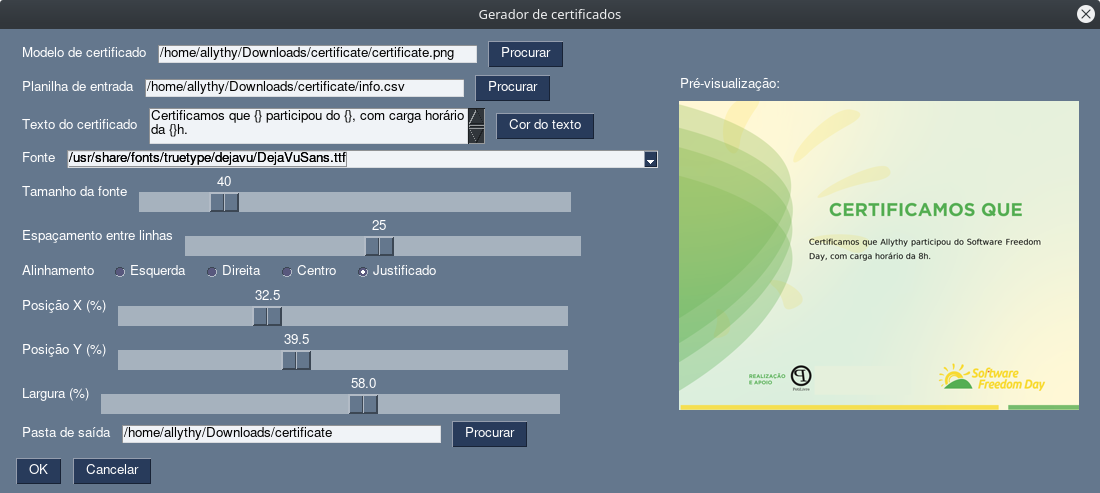
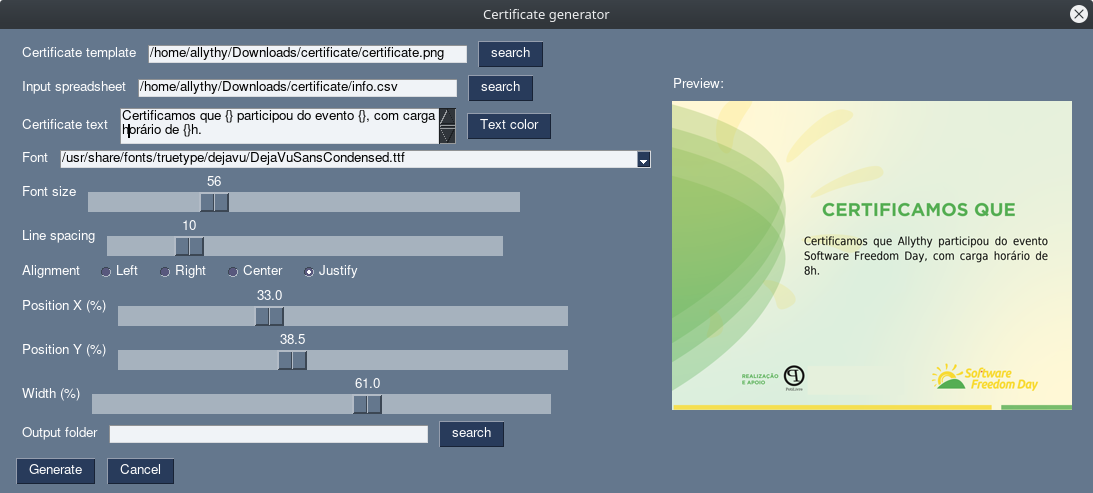
Adding information on how to use it in the readme

diff --git a/main.py b/main.py
@@ -41,7 +41,7 @@ col_right = [[sg.Text('Preview:')],
 
 layout = [
     [sg.Column(col_left), sg.Column(col_right)],
-    [sg.OK(), sg.Cancel('Cancel')],
+    [sg.OK('Generate'), sg.Cancel('Cancel')],
 ]
 
 window = sg.Window("Certificate generator").Layout(layout)

diff --git a/README.md b/README.md
@@ -1,5 +1,3 @@
-![certificate generator photo](screenshot/screenshot.png)
-
 ## Install
 
 Install project dependencies
@@ -17,3 +15,17 @@ pip install -r requirements.txt
 ```
 python3 main.py
 ```
+
+## Use
+
+![certificate generator photo](screenshot/screenshot.png)
+
+**Certificate template**: accepts .JPG or .PNG formats.
+
+**Input spreadsheet: accepts** .csv or .xlsx formats.
+
+**Certificate text**: the spreadsheet information is filled in using `{}`, which represents data from the file line as you can see in the example image.
+
+**Font**: Select a font that is installed on your system.
+
+**Output folder**: folder where you will save the certificates.
